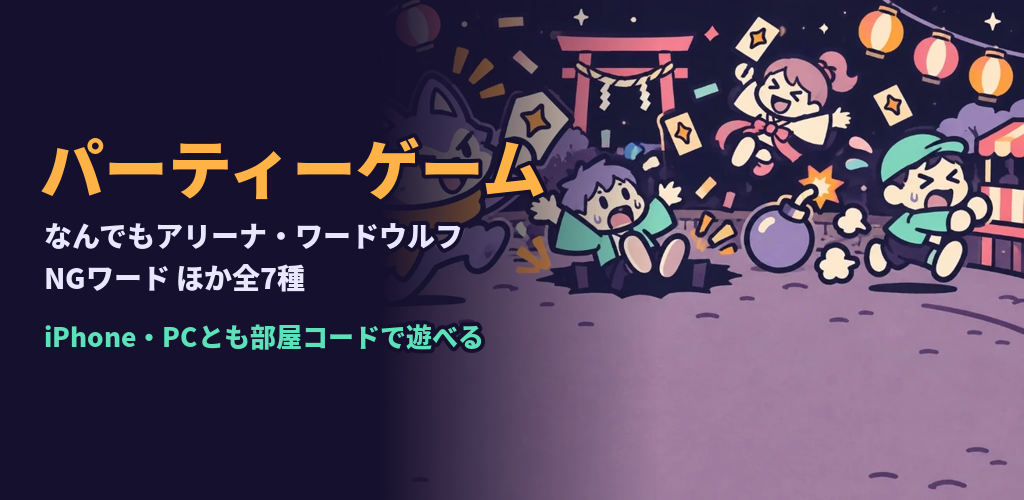
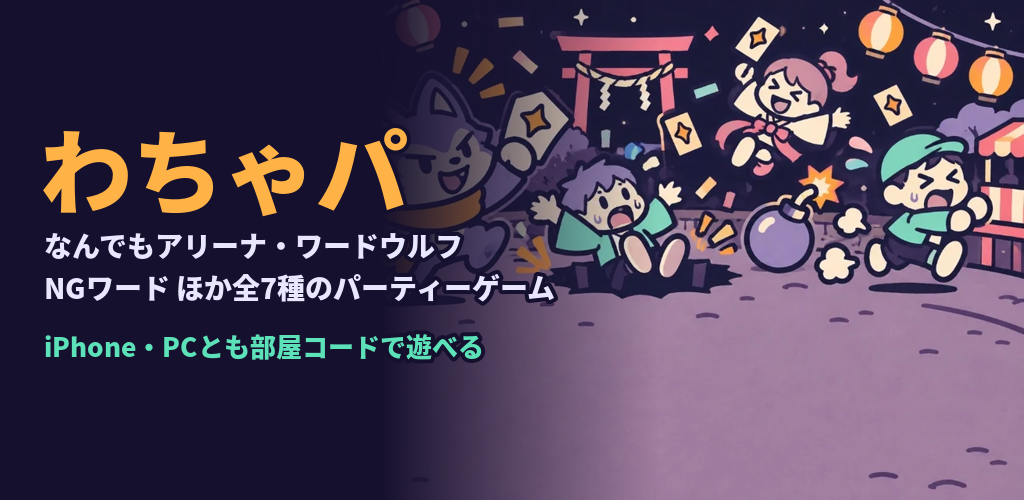
アプリ名を「わちゃパ」に変更（v0.7.1）
Claude-Session: https://claude.ai/code/session_01AnBTsYZUNkDwptdT83Hj7b

Changed region(s): [[0.0312, 0.24, 0.5625, 0.6], [0.0312, 0.63, 0.5, 0.72]]

diff --git a/pc/src/app.js b/pc/src/app.js
@@ -1,5 +1,5 @@
 /*
- * パーティーゲーム PC 版。
+ * わちゃパ（パーティーゲーム）PC・ウェブ版。
  * スマホのアプリと同じ部屋に「オンライン」で入れる。ゲームの進行（Engine）はアプリと同じ Kotlin のコードを
  * JavaScript にしたもの（lib/partygame.js）で、PC が部屋を作ったときはこの中で動く。
  */
@@ -263,7 +263,7 @@
     return '<div class="title">' +
       '<div class="hero"><img src="img/arena_hero.webp" alt=""><span class="badge">一押し！ なんでもアリーナ</span></div>' +
       '<div class="stack">' +
-      '<div class="row">' + img('char_wolf_hello', 96) + '<div><h1>パーティーゲーム</h1><div class="cap">なんでもアリーナ・ワードウルフ・NGワード ほか全7種<br>iPhone・PC・Androidアプリの人と、部屋コードでいっしょに遊べます</div></div></div>' +
+      '<div class="row">' + img('char_wolf_hello', 96) + '<div><h1>わちゃパ</h1><div class="cap">なんでもアリーナ・ワードウルフ・NGワード ほか全7種<br>iPhone・PC・Androidアプリの人と、部屋コードでいっしょに遊べます</div></div></div>' +
       '<input id="nameIn" class="text" maxlength="10" placeholder="あなたの名前（10文字まで）" value="' + esc(S.name) + '">' +
       '<button class="big" data-act="host"' + (S.name.trim() ? '' : ' disabled') + '>' + img('icon_create', 36) + '部屋を作る</button>' +
       '<button class="big sec" data-act="toJoin"' + (S.name.trim() ? '' : ' disabled') + '>' + img('icon_join', 36) + '部屋に参加する</button>' +
@@ -702,7 +702,7 @@
       case 'leave': confirmBox(v && v.isHost ? '部屋を閉じますか？' : '部屋を出ますか？', v && v.isHost ? '全員の接続が切れます' : '', '出る', leave); break;
       case 'share': {
         const url = /^https?:/.test(location.protocol) ? location.href.split('#')[0] : '';
-        navigator.share({ title: 'パーティーゲーム', text: 'パーティーゲームで遊ぼう！ 「部屋に参加する」で部屋コード ' + v.roomCode + ' を入れてね', url: url || undefined }).catch(function () {});
+        navigator.share({ title: 'わちゃパ', text: 'わちゃパで遊ぼう！ 「部屋に参加する」で部屋コード ' + v.roomCode + ' を入れてね', url: url || undefined }).catch(function () {});
         break;
       }
       case 'copy': try { navigator.clipboard.writeText(v.roomCode); toast('コピーしました'); } catch (err) { toast(v.roomCode); } break;

diff --git a/app/src/main/java/com/zen/partygame/ui/AppViewModel.kt b/app/src/main/java/com/zen/partygame/ui/AppViewModel.kt
@@ -133,7 +133,7 @@ class AppViewModel(app: Application) : AndroidViewModel(app) {
     /** 部屋コードをLINEなどで送る */
     fun shareInvite(code: String) {
         val web = com.zen.partygame.BuildConfig.WEB_URL
-        val text = "パーティーゲームで遊ぼう！\nアプリで「オンライン」→「部屋に参加する」を押して、部屋コード $code を入れてね" +
+        val text = "わちゃパで遊ぼう！\nアプリで「オンライン」→「部屋に参加する」を押して、部屋コード $code を入れてね" +
             if (web.isNotBlank()) "\niPhone・PCはこちらから：$web" else ""
         val send = android.content.Intent(android.content.Intent.ACTION_SEND).apply { type = "text/plain"; putExtra(android.content.Intent.EXTRA_TEXT, text) }
         getApplication<Application>().startActivity(android.content.Intent.createChooser(send, "招待を送る").addFlags(android.content.Intent.FLAG_ACTIVITY_NEW_TASK))

diff --git a/app/src/main/java/com/zen/partygame/ui/Screens.kt b/app/src/main/java/com/zen/partygame/ui/Screens.kt
@@ -191,8 +191,8 @@ fun TitleScreen(vm: AppViewModel) {
     ) {
         Spacer(Modifier.height(12.dp))
         Art(R.drawable.char_wolf_hello, 190.dp)
-        Text("ワードウルフ", style = MaterialTheme.typography.displayMedium, color = MaterialTheme.colorScheme.primary)
-        Text("＆ NGワード ほか", style = MaterialTheme.typography.headlineMedium, color = MaterialTheme.colorScheme.secondary)
+        Text("わちゃパ", style = MaterialTheme.typography.displayMedium, color = MaterialTheme.colorScheme.primary)
+        Text("ワードウルフ・NGワード ほか", style = MaterialTheme.typography.headlineMedium, color = MaterialTheme.colorScheme.secondary)
         Spacer(Modifier.height(6.dp))
         Caption("7つのパーティーゲーム。全員のスマホで遊べる", Modifier.padding(bottom = 20.dp))
 

diff --git a/pc/src/index.html b/pc/src/index.html
@@ -7,10 +7,10 @@
 <meta name="apple-mobile-web-app-capable" content="yes">
 <meta name="mobile-web-app-capable" content="yes">
 <meta name="apple-mobile-web-app-status-bar-style" content="black-translucent">
-<meta name="apple-mobile-web-app-title" content="パーティー">
+<meta name="apple-mobile-web-app-title" content="わちゃパ">
 <link rel="apple-touch-icon" href="icons/icon-180.png">
 <link rel="manifest" href="manifest.webmanifest">
-<title>パーティーゲーム（なんでもアリーナ ほか）</title>
+<title>わちゃパ｜ワードウルフ・NGワードほかパーティーゲーム</title>
 <link rel="icon" href="icons/icon-192.png">
 <link rel="stylesheet" href="style.css">
 <script src="config.js"></script>

diff --git a/pc/pages.py b/pc/pages.py
@@ -23,10 +23,10 @@ h3{font-size:18px;margin:20px 0 4px}a{color:var(--mint)}.box{background:var(--ca
 def page(title, body, head_extra=''):
     return f'''<!doctype html>
 <html lang="ja"><head><meta charset="utf-8"><meta name="viewport" content="width=device-width, initial-scale=1, viewport-fit=cover">
-<title>{html.escape(title)}｜パーティーゲーム</title><meta name="theme-color" content="#15102D"><link rel="icon" href="icons/icon-192.png">
+<title>{html.escape(title)}｜わちゃパ</title><meta name="theme-color" content="#15102D"><link rel="icon" href="icons/icon-192.png">
 <meta name="description" content="なんでもアリーナ・ワードウルフ・NGワードなど7つのパーティーゲーム。iPhone・Android・PCのブラウザで、部屋コードを使ってみんなで遊べます。">
 {head_extra}<style>{CSS}</style></head><body>
-<header><a href="./">パーティーゲーム</a><a href="howto.html">遊び方</a><a href="about.html">このサイトについて</a><a href="privacy.html">プライバシー</a><a class="play" href="./">遊ぶ</a></header>
+<header><a href="./">わちゃパ</a><a href="howto.html">遊び方</a><a href="about.html">このサイトについて</a><a href="privacy.html">プライバシー</a><a class="play" href="./">遊ぶ</a></header>
 <main>{body}</main><footer>© 2026 Zen ・ <a href="{CONTACT}">お問い合わせ</a></footer></body></html>
 '''
 
@@ -73,7 +73,7 @@ def howto(cards, chaos):
 
 def about():
     return f'''<h1>このサイトについて</h1>
-<p>「パーティーゲーム」は、友だちや家族と集まったとき、または通話しながら遊べるパーティーゲーム集です。なんでもアリーナ・ワードウルフ・NGワード・スパイはだれだ・みんなでシンクロ・質問で当てろ・ぶっちゃけ質問の7つを、無料で遊べます。</p>
+<p>「わちゃパ」は、友だちや家族と集まったとき、または通話しながら遊べるパーティーゲーム集です。なんでもアリーナ・ワードウルフ・NGワード・スパイはだれだ・みんなでシンクロ・質問で当てろ・ぶっちゃけ質問の7つを、無料で遊べます。</p>
 <h2>遊べる端末</h2><ul><li>iPhone・iPad（Safari。ホーム画面に追加するとアプリのように使えます）</li><li>Android（ブラウザ、または Android アプリ）</li><li>パソコン（Edge・Chrome などのブラウザ、または PC 版の「遊ぶ.bat」）</li></ul>
 <p>どの端末どうしでも、部屋コードを使って同じ部屋で遊べます。</p>
 <h2>しくみ</h2><p>このサイトは運営者のサーバーを使っていません。ゲームの進行は部屋を作った人の端末の中で行われ、参加者の端末どうしが直接通信します（相手を見つけるときだけ PeerJS の仲介サーバーを使います）。そのため、入力した名前や答えが運営者に届くことはありません。</p>
@@ -85,7 +85,7 @@ def about():
 
 def privacy():
     return f'''<h1>プライバシーポリシー</h1>
-<p>「パーティーゲーム」（このサイトのウェブ版、PC 版、Android アプリ「ワードウルフ＆NG」を含みます。以下「本サービス」）における利用者の情報の取り扱いについて説明します。</p>
+<p>「わちゃパ」（このサイトのウェブ版、PC 版、Android アプリを含みます。以下「本サービス」）における利用者の情報の取り扱いについて説明します。</p>
 <h2>1. 運営者が集める情報</h2><p>運営者は、利用者の個人情報を収集・保存しません。本サービスは運営者のサーバーを使用しません。</p>
 <h2>2. 端末どうしの通信</h2>
 <p>入力した名前やゲームの内容は、同じ部屋に参加している端末の間でのみやり取りされ、運営者に送られることはありません。</p>

diff --git a/MONETIZE.md b/MONETIZE.md
@@ -16,7 +16,7 @@
 
 1. https://admob.google.com に Google アカウントで登録（国：日本、通貨：円）
 2. 「お支払い」でお支払いプロファイル（氏名・住所）を登録
-3. 「アプリ」→「アプリを追加」→ Android・「まだ公開されていない」→ 名前「ワードウルフ＆NG」
+3. 「アプリ」→「アプリを追加」→ Android・「まだ公開されていない」→ 名前「わちゃパ」
 4. 広告ユニットを2つ作る
    - 「バナー」…名前は「banner」
    - 「インタースティシャル」…名前は「break」

diff --git a/README.md b/README.md
@@ -1,4 +1,4 @@
-# ワードウルフ＆NG（仮）
+# わちゃパ（ワードウルフ・NGワードほかパーティーゲーム集）
 
 その場にいる全員のスマホで遊ぶ、6種類のパーティーゲームのAndroidアプリ（ワードウルフ・NGワード・スパイはだれだ・みんなでシンクロ・質問で当てろ・ぶっちゃけ質問）。サーバーなし（Nearby Connections）、収益は AdMob 広告。仕様は [SPEC.md](SPEC.md)。
 

diff --git a/store/listing.md b/store/listing.md
@@ -1,7 +1,7 @@
 # Google Play ストア掲載情報（コピーして使う）
 
 ## アプリ名（30文字まで）
-パーティーゲーム - ワードウルフ・NGワードほか
+わちゃパ - ワードウルフ・NGワード・パーティーゲーム
 
 ## 簡単な説明（80文字まで）
 ワードウルフ・NGワード・理不尽カードバトルなど7種。スマホ・iPhone・PCで一緒に遊べる！
